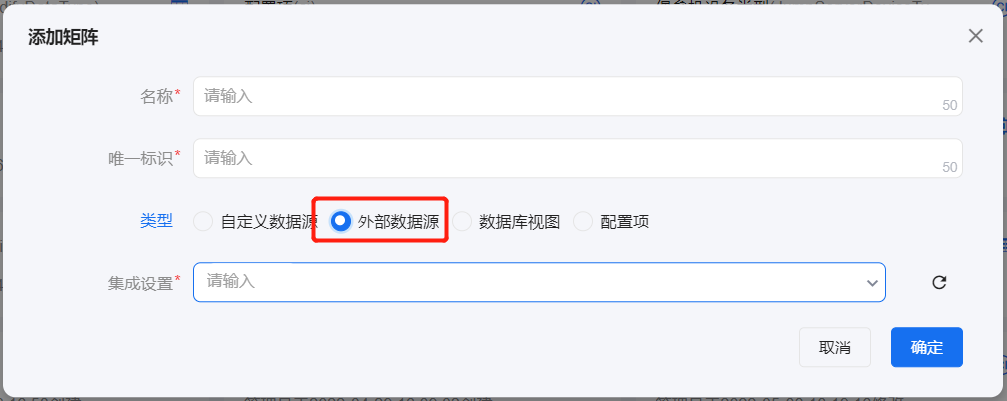
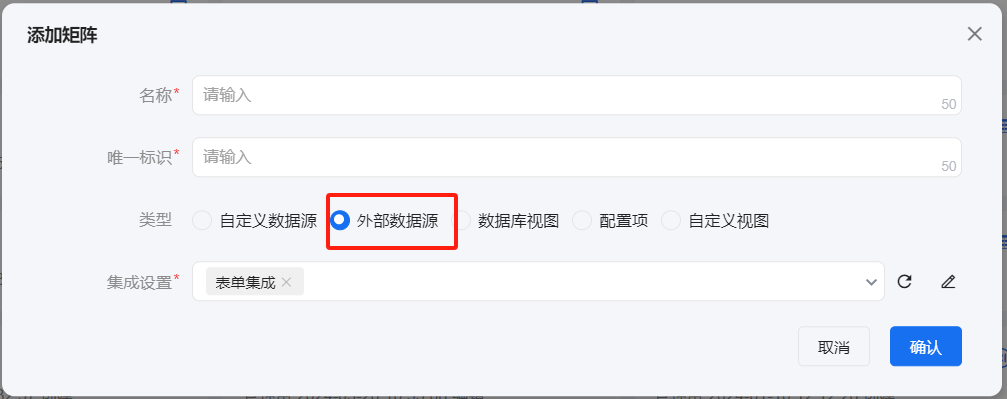
#[1112395794055168]系统设置-矩阵-数据源增加自定义视图 http://192.168.0.96:8090/demo/rdm.html#/story-detail/939050947543040/939050947543042/1112395794055168

diff --git a/src/main/resources/neatlogic/resources/documentonline/zh/3.配置管理/模型管理/模型管理.md b/src/main/resources/neatlogic/resources/documentonline/zh/3.配置管理/模型管理/模型管理.md
@@ -63,6 +63,10 @@
 如果模型的属性需要限制输入的规则，例如文本框只允许输入ip地址，但是文本框输入默认没有限制，可以通引入校验规则来限制输入的值，校验的选项来自[校验规则管理](../系统管理/校验规则管理.md)。
 ![](images/模型管理_属性_校验.png)
 
+允许搜索<br>
+属性启用这个配置，才允许在高级搜索中作为搜索条件；在自定义视图中，可以连接其他模型的属性，作为匹配条件。
+![](images/模型管理_属性_允许搜索.png)
+
 ### 全局属性
  模型的全局属性数据来自[全局属性管理](../系统管理/全局属性管理.md)，模型中不能修改全局属性。如果全局属性中没有数据，所有模型都会隐藏全局属性页签。
  ![](images/全局属性.png)

diff --git a/src/main/resources/neatlogic/resources/documentonline/zh/100.系统配置/3.数据和集成/矩阵管理.md b/src/main/resources/neatlogic/resources/documentonline/zh/100.系统配置/3.数据和集成/矩阵管理.md
@@ -55,3 +55,7 @@
 ### 配置项
 配置项数据源是通过关联配置项模型并选择模型属性，然后生成矩阵数据源。模型数据源参考配置管理-[模型管理](../../3.配置管理/模型管理/模型管理.md)。
 ![](images/矩阵管理_配置项矩阵.png)
+
+### 自定义视图
+自定义视图数据源是通过引用配置管理-自定义视图，勾选需要的属性，然后生产矩阵数据源，矩阵数据会随自定义视图的数据动态变化。自定义视图详情参考配置管理-[自定义视图](../../3.配置管理/自定义视图/自定义视图.md)
+![](images/矩阵管理_自定义视图矩阵.png)

diff --git a/src/main/resources/neatlogic/resources/documentonline/zh/3.配置管理/自定义视图/自定义视图.md b/src/main/resources/neatlogic/resources/documentonline/zh/3.配置管理/自定义视图/自定义视图.md
@@ -32,6 +32,8 @@
 
 5. 自定义模板支持用户根据自己的需求自定义数据列表的展示效果。补充说明，显示设置中定义了唯一标识的属性才能使用。
 ![](iamges/数据视图_自定义模板.png)
+
+    **注意：模型管理中启用了允许搜索的属性才能用于连接。**
    
 ## 拓扑视图
 拓扑视图是可以将任意模型的配置项做为拓扑图节点，并且自由连接配置项上、下游关系,最终。
